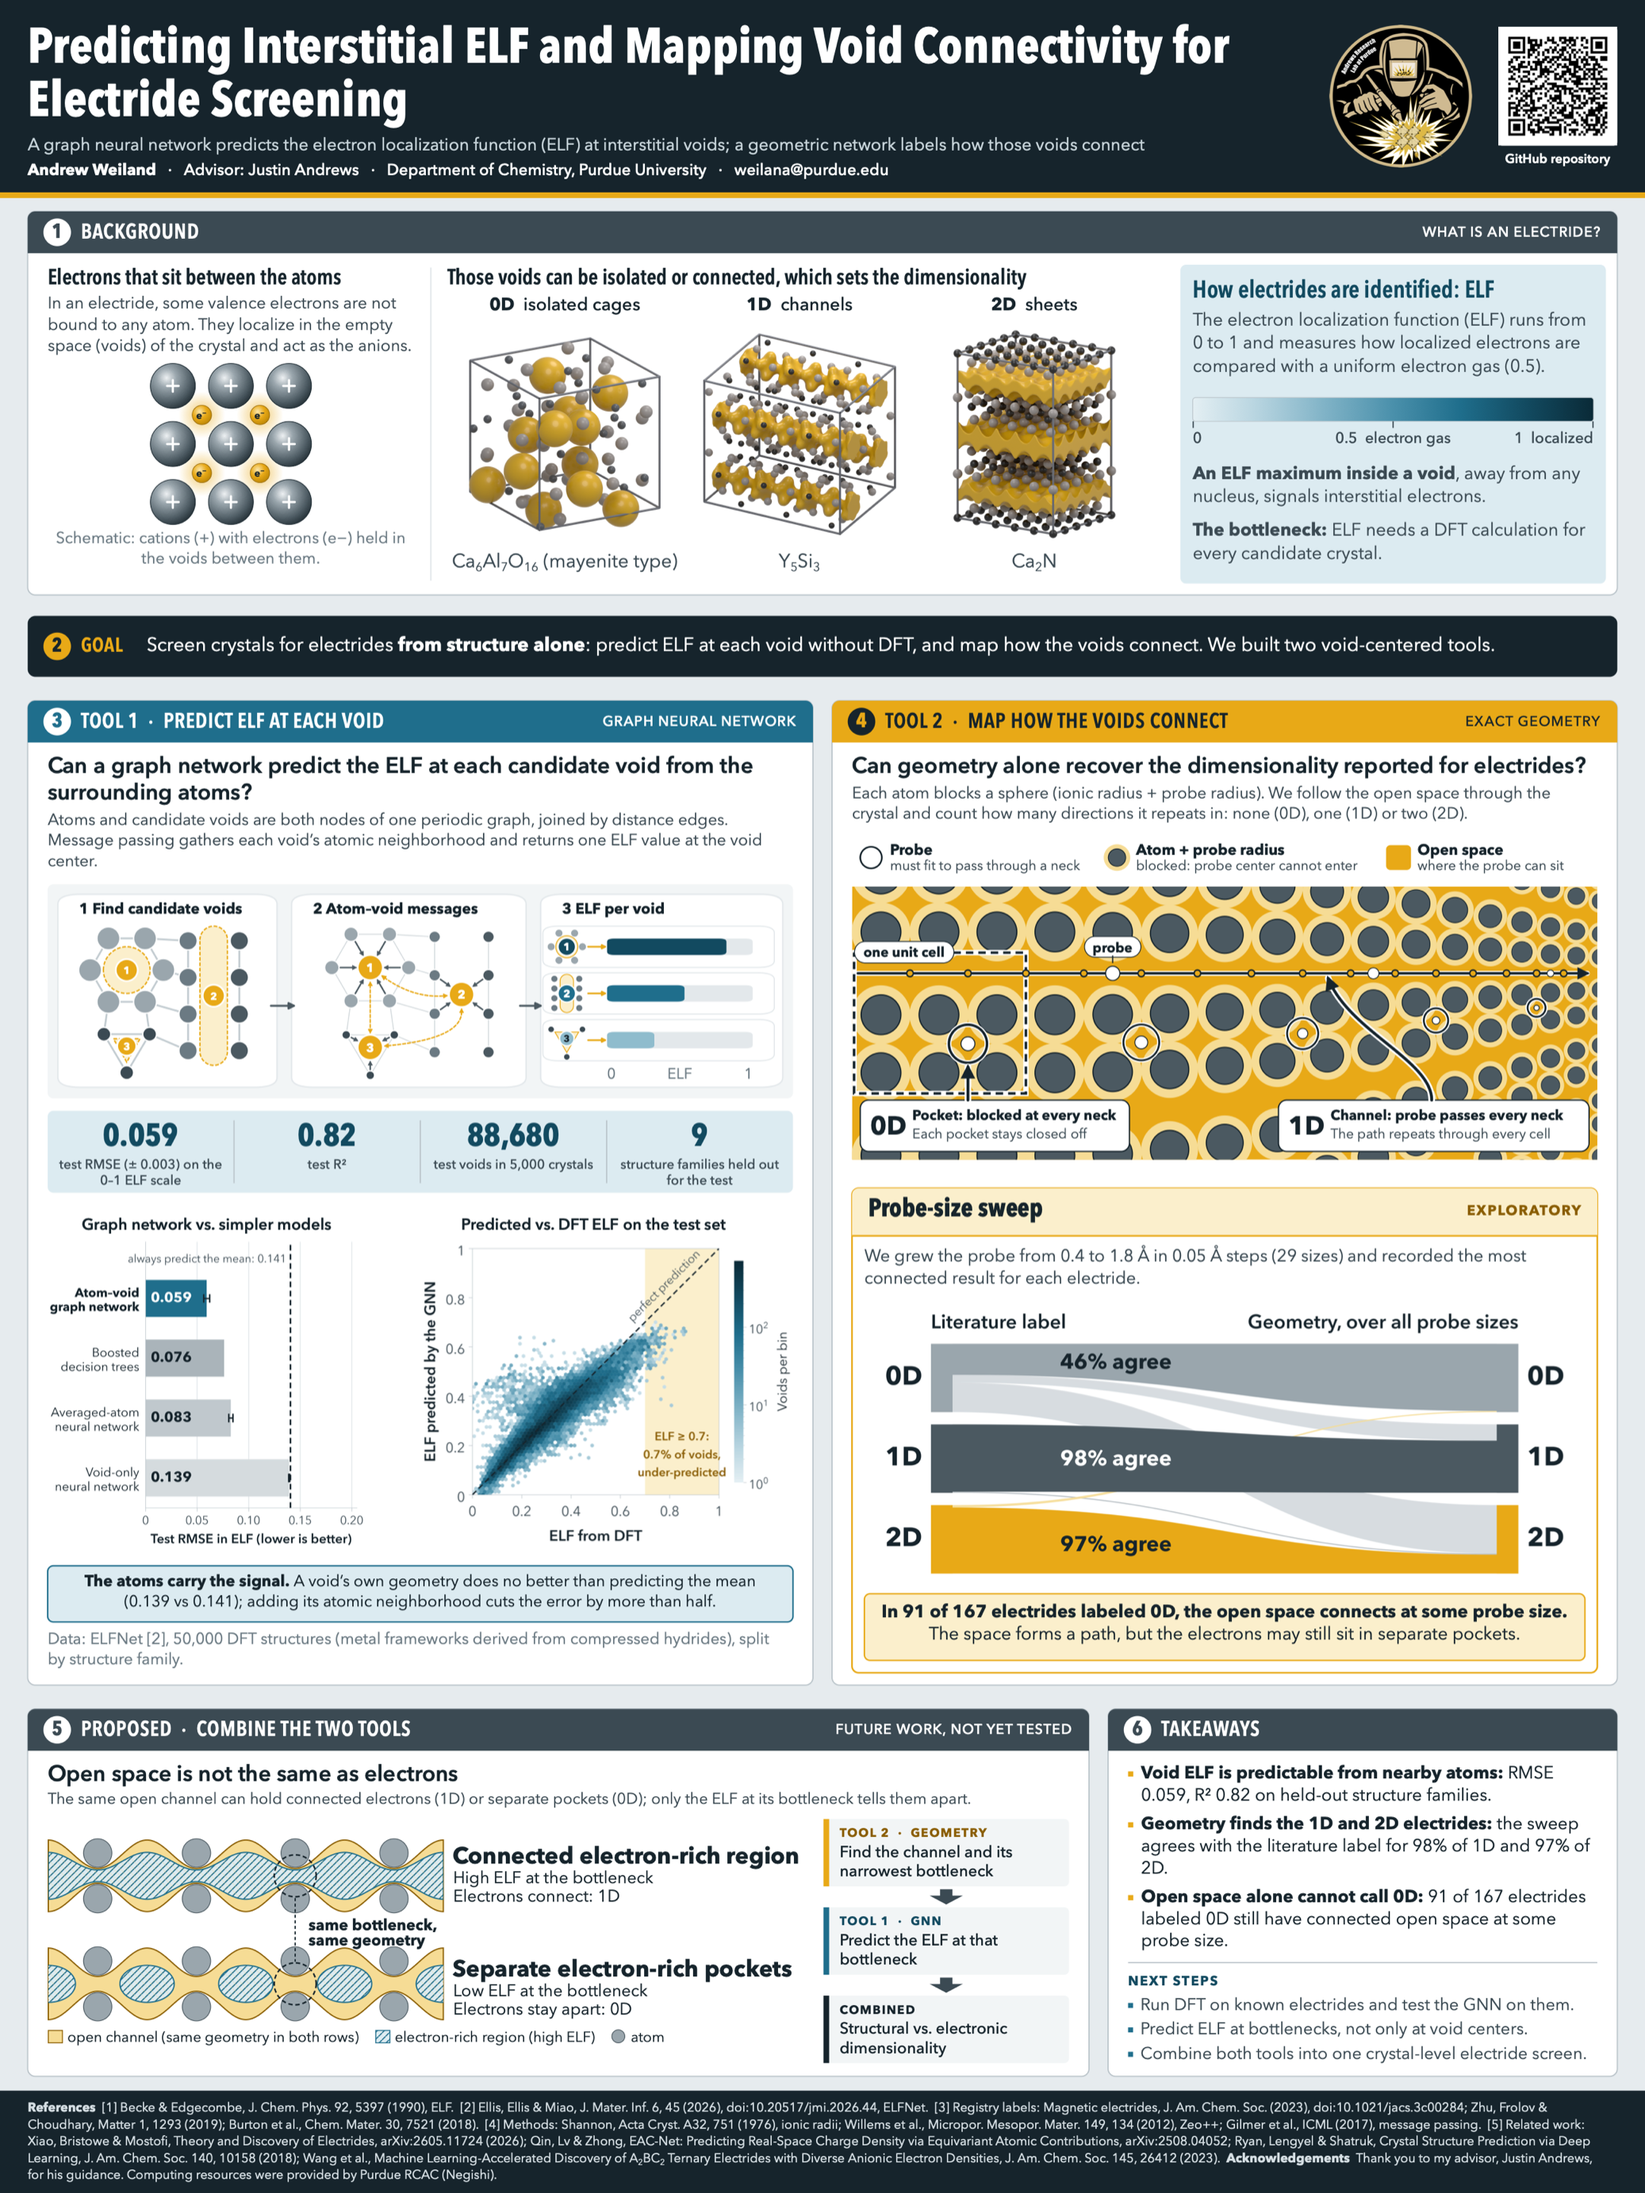
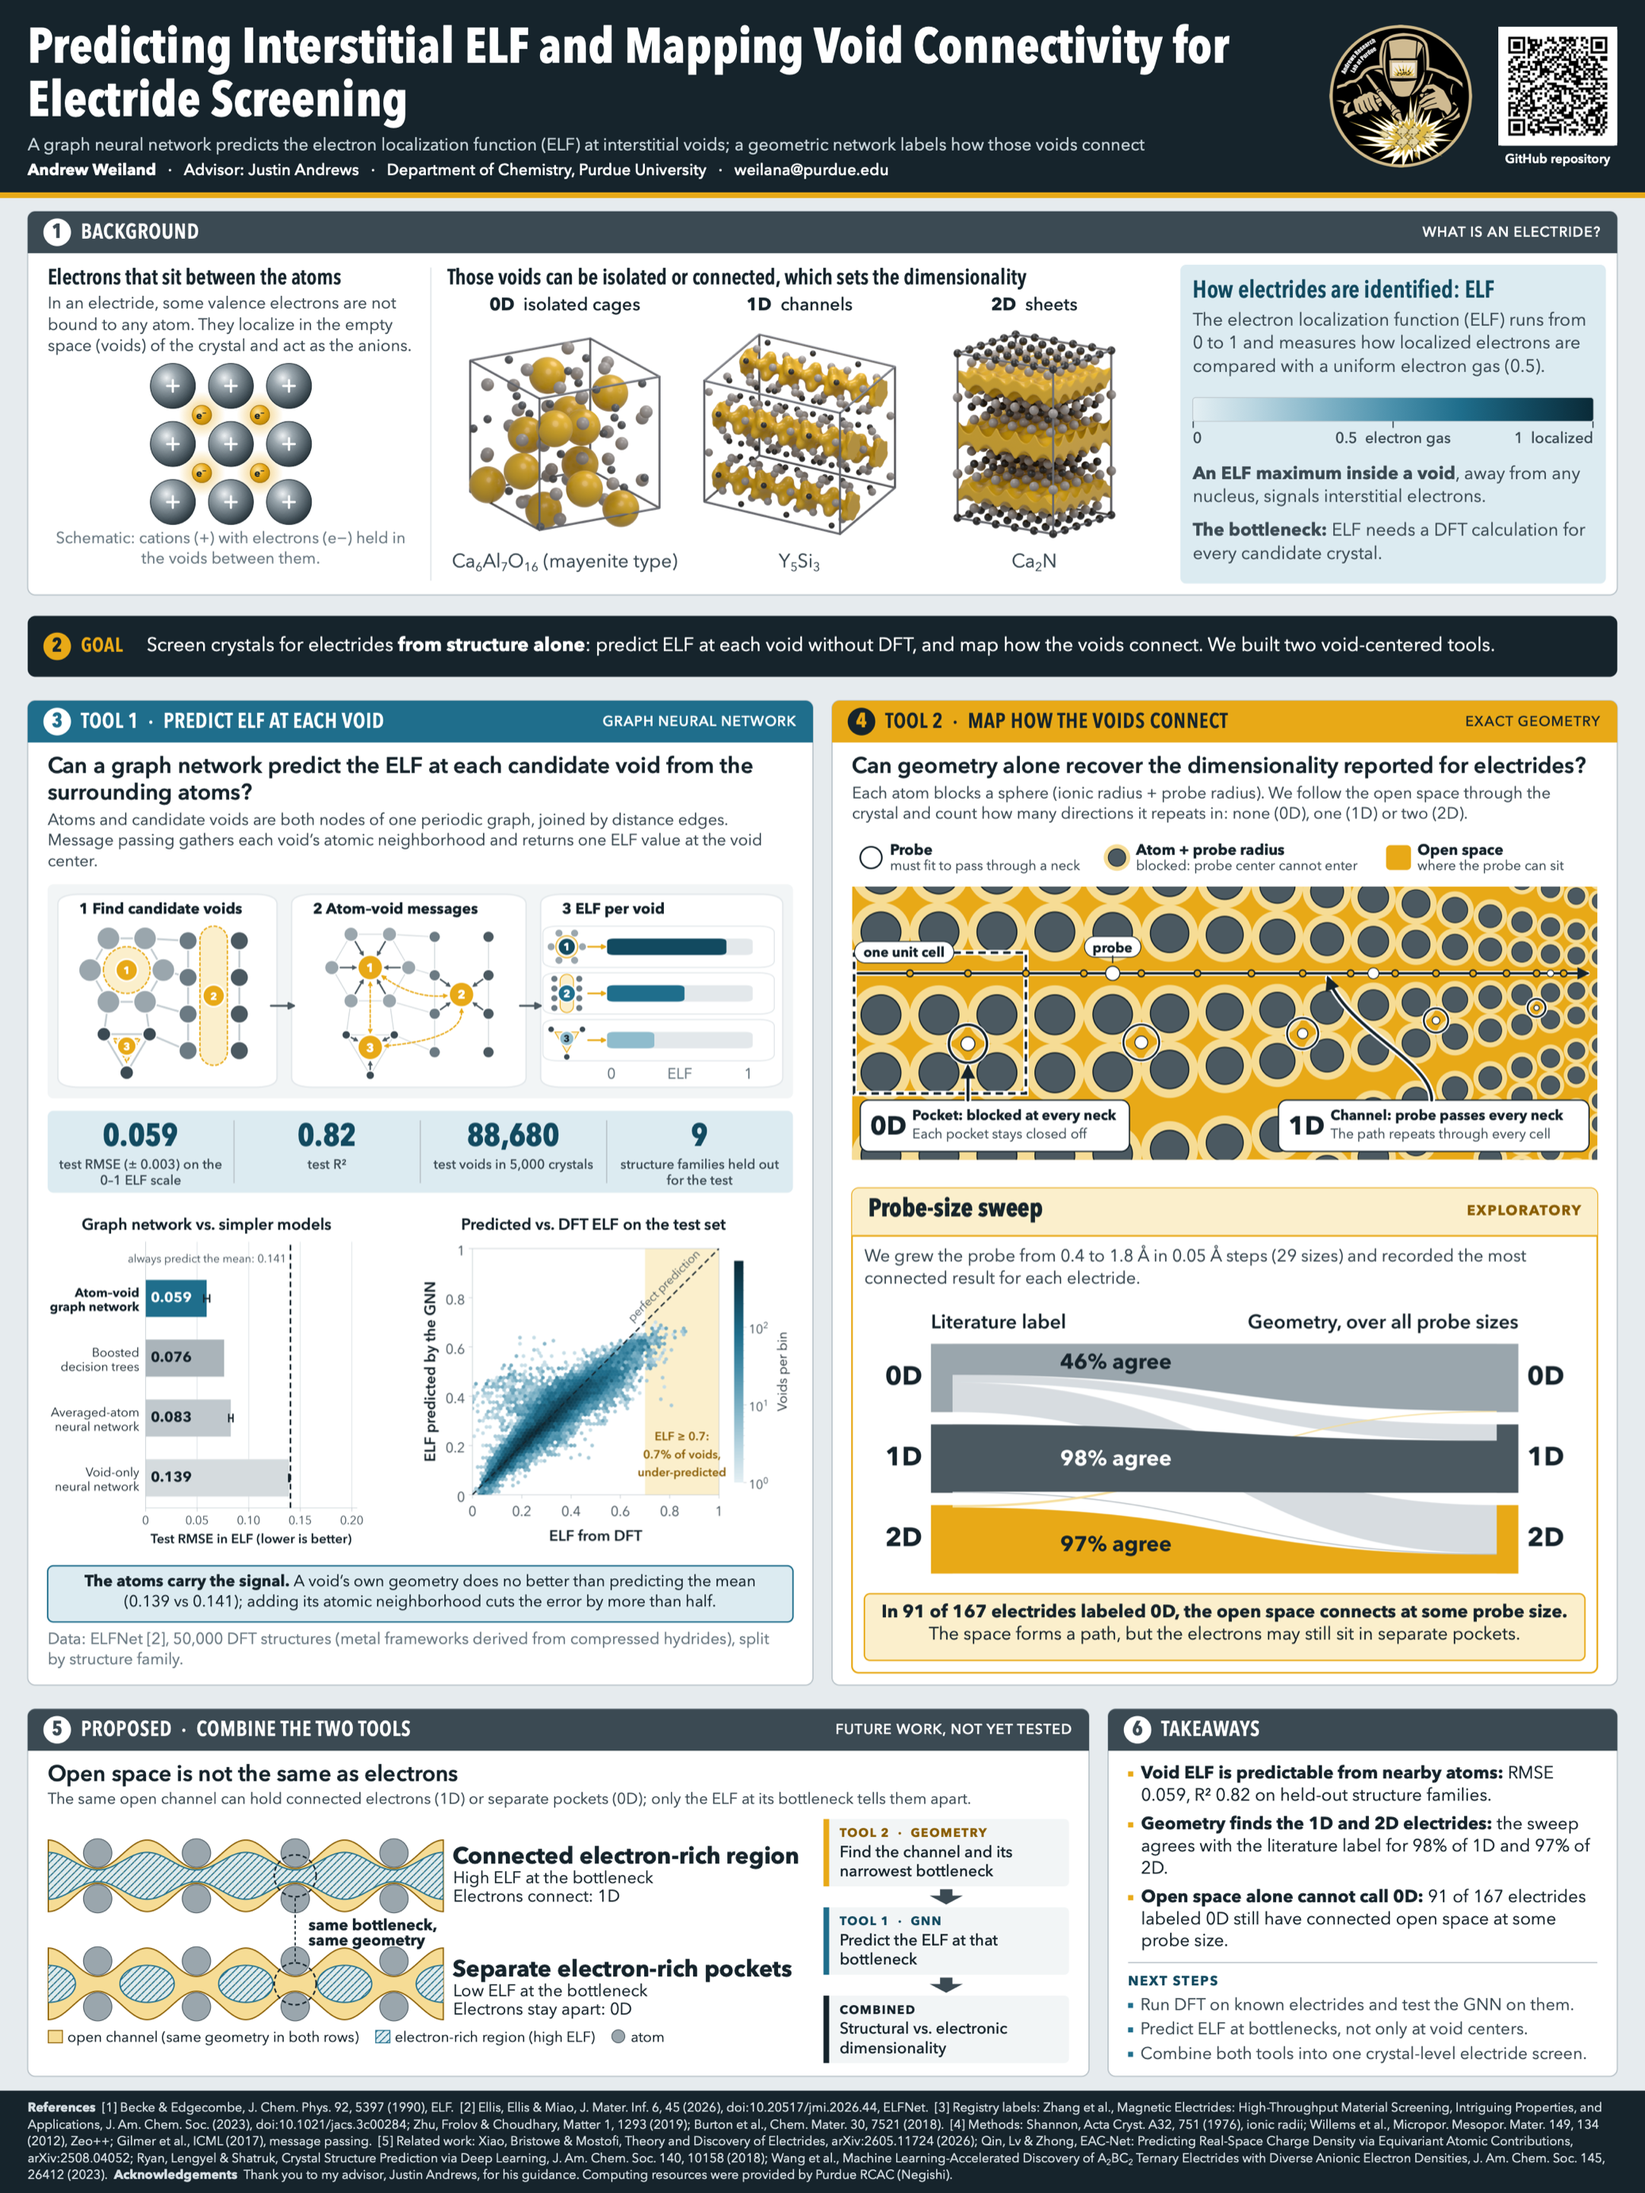
Poster v4: correct reference [3] title and authors

Changed region(s): [[0.0, 0.9331, 0.9875, 0.9953]]

diff --git a/poster/build/build_poster_v4.py b/poster/build/build_poster_v4.py
@@ -473,7 +473,7 @@ ry = H - REF_H
 p.rect(0, ry, W, REF_H, T.INK, label="References band")
 p.text(M, ry + 24, W - 2 * M,
        "**References**  [1] Becke & Edgecombe, J. Chem. Phys. 92, 5397 (1990), ELF.  [2] Ellis, Ellis & Miao, J. Mater. Inf. 6, 45 (2026), "
-       "doi:10.20517/jmi.2026.44, ELFNet.  [3] Registry labels: Magnetic electrides, J. Am. Chem. Soc. (2023), doi:10.1021/jacs.3c00284; "
+       "doi:10.20517/jmi.2026.44, ELFNet.  [3] Registry labels: Zhang et al., Magnetic Electrides: High-Throughput Material Screening, Intriguing Properties, and Applications, J. Am. Chem. Soc. (2023), doi:10.1021/jacs.3c00284; "
        "Zhu, Frolov & Choudhary, Matter 1, 1293 (2019); Burton et al., Chem. Mater. 30, 7521 (2018).  [4] Methods: Shannon, Acta Cryst. A32, 751 (1976), "
        "ionic radii; Willems et al., Micropor. Mesopor. Mater. 149, 134 (2012), Zeo++; Gilmer et al., ICML (2017), message passing.  "
        "[5] Related work: Xiao, Bristowe & Mostofi, Theory and Discovery of Electrides, arXiv:2605.11724 (2026); "
